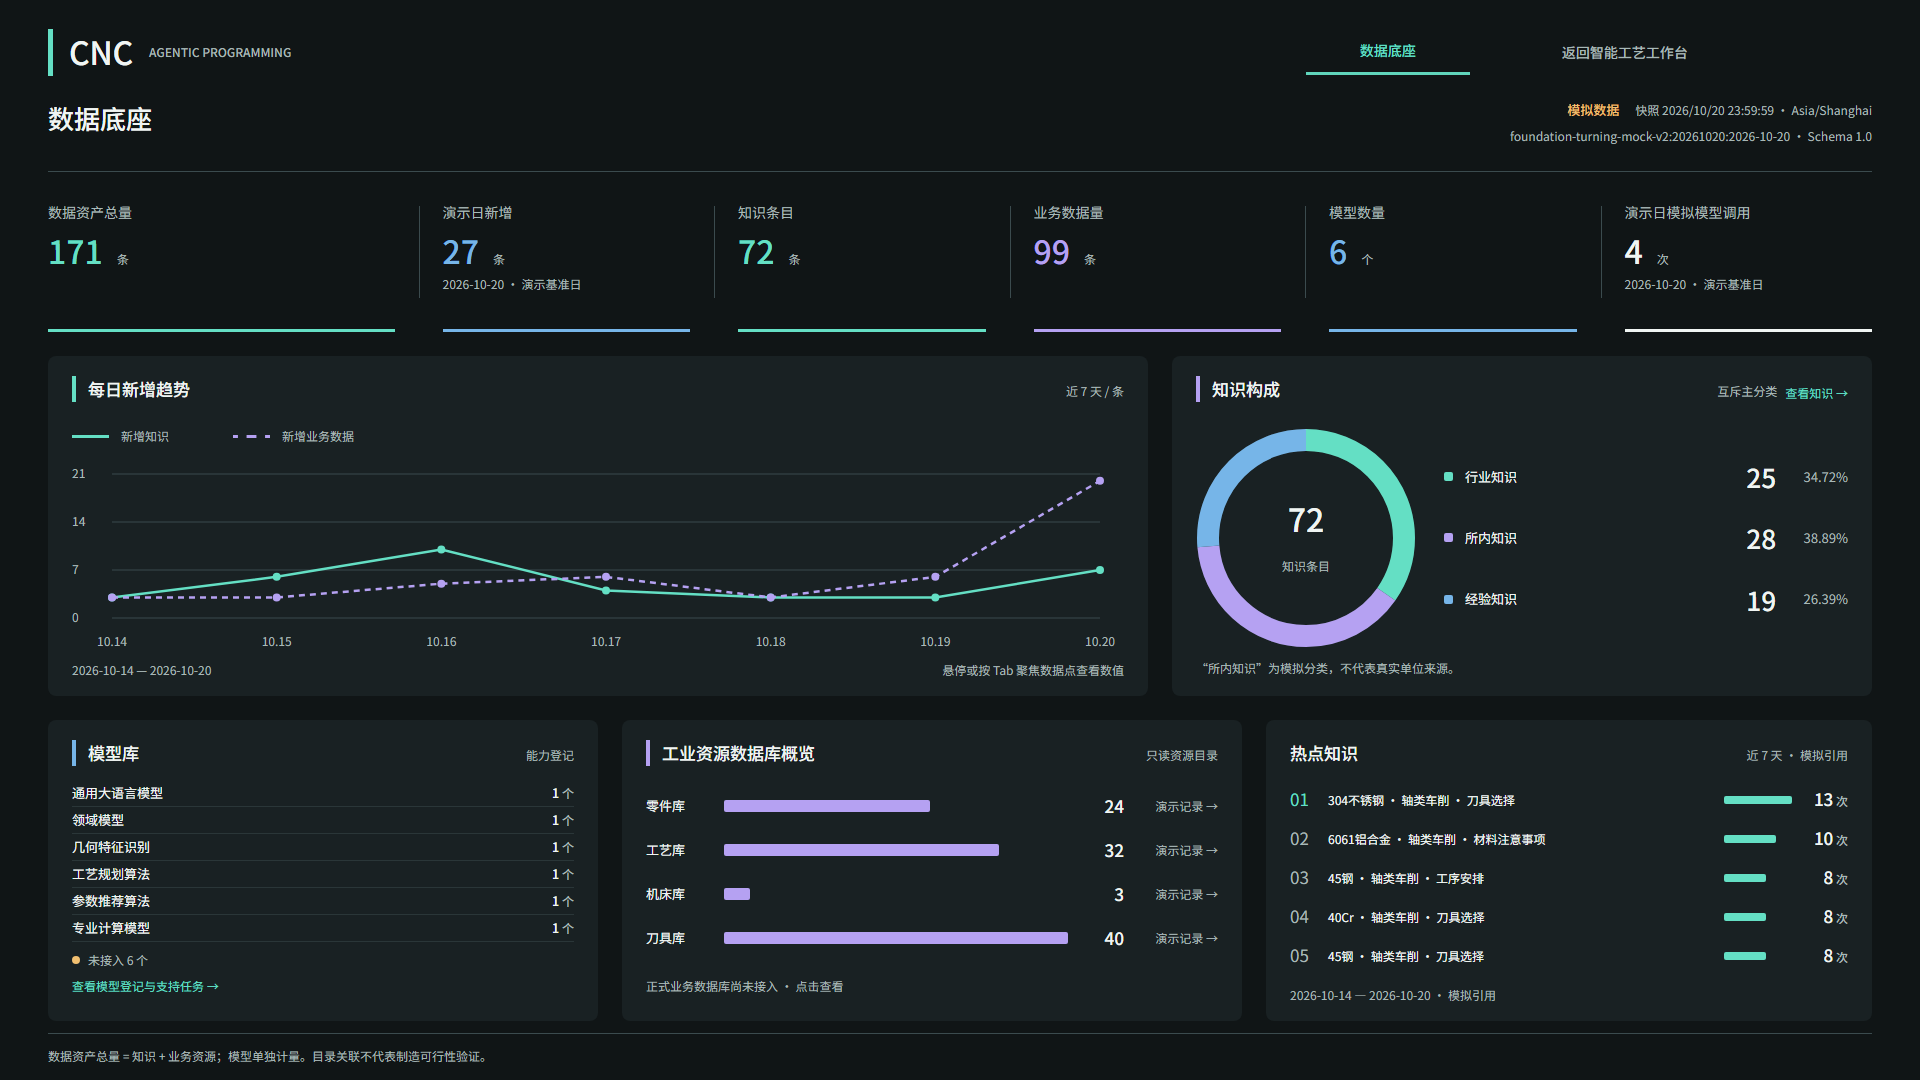
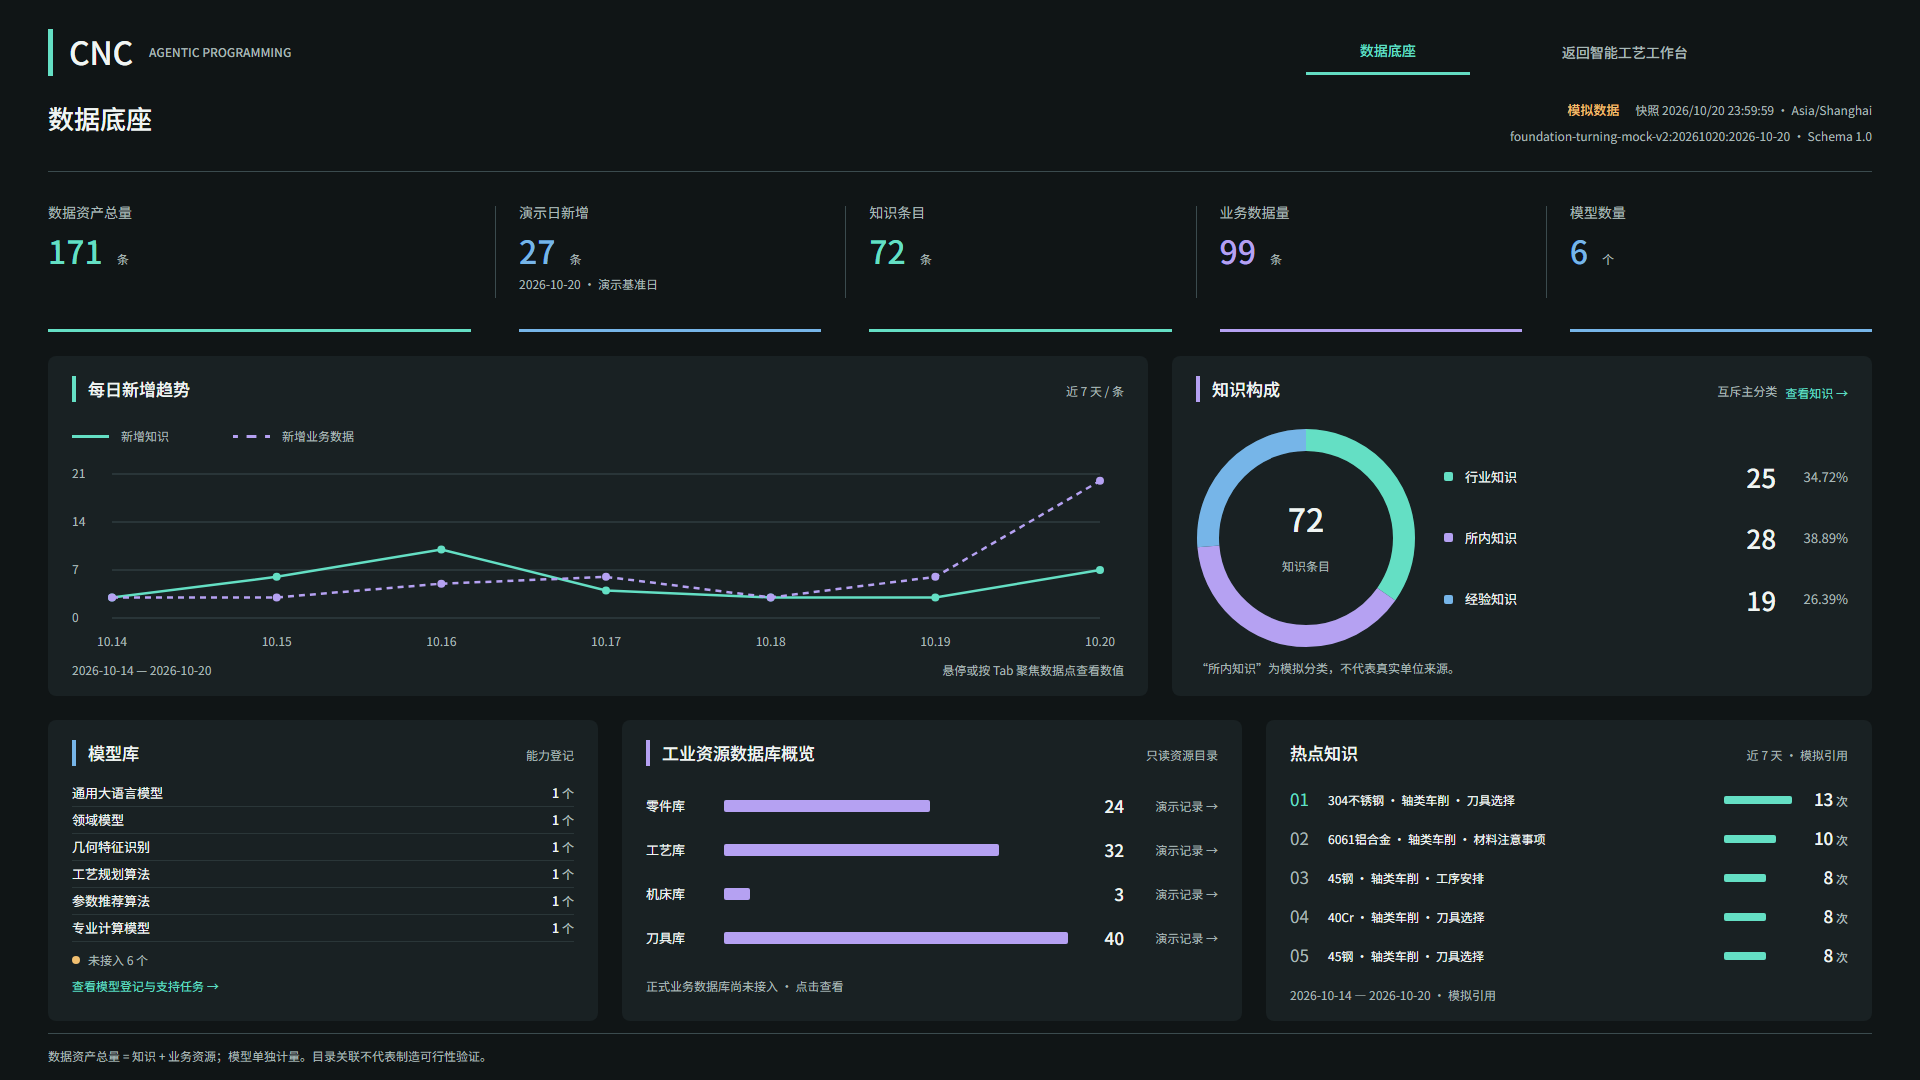
refactor: 移除模型调用指标并调整五项概览布局

diff --git a/src/pages/data-foundation/DataFoundationPage.test.tsx b/src/pages/data-foundation/DataFoundationPage.test.tsx
@@ -23,7 +23,7 @@ function deferred<T>() {
 }
 
 describe('数据底座 Reader 驱动页面', () => {
-  it('独立 Reader 驱动六项指标、日期、零值、百分比、模型状态和引用排名', async () => {
+  it('独立 Reader 驱动五项指标、日期、零值、百分比、模型状态和引用排名', async () => {
     const reader = foundationTestReader()
     const overview = vi.spyOn(reader, 'getOverview'),
       trend = vi.spyOn(reader, 'getGrowthTrend'),
@@ -31,7 +31,8 @@ describe('数据底座 Reader 驱动页面', () => {
     render(<DataFoundationPage reader={reader} />)
     await screen.findByText('演示日新增')
     const kpis = screen.getByRole('region', { name: '数据概览' }).querySelectorAll('dd strong')
-    expect(Array.from(kpis, (item) => item.textContent)).toEqual(['8', '4', '3', '5', '1', '2'])
+    expect(Array.from(kpis, (item) => item.textContent)).toEqual(['8', '4', '3', '5', '1'])
+    expect(screen.queryByText(/模型调用/)).not.toBeInTheDocument()
     expect(screen.getByText('模拟数据')).toBeVisible()
     expect(screen.getByText(/independent-ui-reader-v1/)).toBeVisible()
     expect(screen.getByText(/快照 2026\/10\/20 23:59:59/)).toBeVisible()
@@ -87,7 +88,7 @@ describe('数据底座 Reader 驱动页面', () => {
         screen.getByRole('region', { name: '数据概览' }).querySelectorAll('dd strong'),
         (item) => item.textContent,
       ),
-    ).toEqual(['0', '0', '0', '0', '0', '0'])
+    ).toEqual(['0', '0', '0', '0', '0'])
     expect(screen.getByText('该窗口暂无知识引用')).toBeVisible()
     expect(screen.getByText('暂无模型登记')).toBeVisible()
     expect(region('知识构成').getAllByText('0%')).toHaveLength(3)
@@ -110,7 +111,7 @@ describe('数据底座 Reader 驱动页面', () => {
         screen.getByRole('region', { name: '数据概览' }).querySelectorAll('dd strong'),
         (item) => item.textContent,
       ),
-    ).toEqual(['0', '0', '0', '0', '0', '0'])
+    ).toEqual(['0', '0', '0', '0', '0'])
   })
   it('来源为 live 时保留真实来源和实际模型状态，不写死模拟文案', async () => {
     const reader = foundationTestReader(false, 'live')

diff --git a/src/features/data-foundation/FoundationPanels.tsx b/src/features/data-foundation/FoundationPanels.tsx
@@ -16,12 +16,6 @@ export function FoundationKpis({ response }: { response: FoundationResponse<Foun
     ['知识条目', response.data.knowledgeCount, '条', 'cyan'],
     ['业务数据量', response.data.businessDataCount, '条', 'violet'],
     ['模型数量', response.data.modelCount, '个', 'blue'],
-    [
-      demo ? '演示日模拟模型调用' : '当日模型调用',
-      response.data.modelInvocationsToday,
-      '次',
-      'white',
-    ],
   ] as const
   return (
     <dl className="foundation-kpis">
@@ -32,7 +26,7 @@ export function FoundationKpis({ response }: { response: FoundationResponse<Foun
             <strong>{number(value)}</strong>
             <span>{unit}</span>
           </dd>
-          {(label === '演示日新增' || label === '当日新增' || unit === '次') && (
+          {(label === '演示日新增' || label === '当日新增') && (
             <small>
               {response.data.date}
               {demo ? ' · 演示基准日' : ' · 统计日'}

diff --git a/src/styles/data-foundation.css b/src/styles/data-foundation.css
@@ -122,7 +122,7 @@
 }
 .foundation-kpis {
   display: grid;
-  grid-template-columns: 1.4fr repeat(5, 1fr);
+  grid-template-columns: 1.4fr repeat(4, 1fr);
   gap: 48px;
   padding: 28px 0 24px;
 }
@@ -134,9 +134,6 @@
 }
 .foundation-tone-blue {
   --foundation-tone: var(--foundation-blue);
-}
-.foundation-tone-white {
-  --foundation-tone: var(--text-primary);
 }
 .foundation-kpi {
   position: relative;

diff --git a/docs/workflows/FE-004B-ACCEPTANCE.md b/docs/workflows/FE-004B-ACCEPTANCE.md
@@ -4,11 +4,11 @@
 
 ## 1. 完成范围与数据边界
 
-数据底座作为独立全局视图接入现有 AppShell，保留一个品牌页眉、当前入口和“返回智能工艺工作台”。页面包含六项 KPI、七日新增趋势、知识构成、模型库、工业资源数据库概览、热点知识，以及六类资源的只读目录、名称搜索、分页、详情和关联 ID 跳转。
+数据底座作为独立全局视图接入现有 AppShell，保留一个品牌页眉、当前入口和“返回智能工艺工作台”。页面包含五项 KPI、七日新增趋势、知识构成、模型库、工业资源数据库概览、热点知识，以及六类资源的只读目录、名称搜索、分页、详情和关联 ID 跳转。
 
 数据契约、Schema、生成器、统计函数、默认配置均未修改。使用维护者验收的 `foundation-turning-mock-v2`，seed `20261020`，基准日期 `2026-10-20`，时区 `Asia/Shanghai`。Reader 返回的快照版本为 `foundation-turning-mock-v2:20261020:2026-10-20`，Schema 为 `1.0`；没有根据系统当天日期刷新 Mock。
 
-实际资源仍为 24 个零件、32 套方案、96 道工序、3 台机床、40 把刀具、72 条知识、6 条模型登记、240 条使用事件。数据资产总量为 171（72 + 99），不含模型、工序或事件；六项 KPI 依次为 **171、27、72、99、6、4**。这是演示基准日统计，不是实时统计。
+实际资源仍为 24 个零件、32 套方案、96 道工序、3 台机床、40 把刀具、72 条知识、6 条模型登记、240 条使用事件。数据资产总量为 171（72 + 99），不含模型、工序或事件；五项 KPI 依次为 **171、27、72、99、6**。这是演示基准日统计，不是实时统计。
 
 知识构成直接使用 Reader 返回的数量和百分比：行业 25 / 34.72%，所内 28 / 38.89%，经验 19 / 26.39%。知识“所内”分类不意味着真实单位来源。全部模型当前为 `not_connected`。界面展示模型登记及支持任务，不声称已部署、真实可调用或已建设知识图谱。目录关联不代表制造可行性验证。
 
@@ -18,7 +18,7 @@
 
 唯一依赖组合入口为 `src/app/dataFoundation.ts`：模块级创建 `MockDataFoundationReader(foundationDemoConfig)`，并以 `DataFoundationReader` 类型导出。App 可注入另一个 Reader。页面和功能组件只依赖契约，不导入生成器、生成模板或使用事件。
 
-- `getOverview()`：六项 KPI 和统计日。
+- `getOverview()`：五项 KPI 和统计日。
 - `getGrowthTrend({ days: 7 })`：实际日期及两条新增序列，保留零值。
 - `getKnowledgeDistribution()`：互斥分类、数量、Reader 已分配的百分比。
 - `getResourceSummary()`：模型类型、接入状态及四类业务资源数量；两个面板共享一次读取。
@@ -28,7 +28,7 @@
 
 `useFoundationQuery` 隔离每个请求的加载、成功、失败与重试状态。参数变化立即隐藏旧响应，清理标记阻止旧请求迟到覆盖结果。统计模块可独立失败；资源汇总失败影响两个共享面板。错误保留 Reader 类别，不补零、不回退其他数据源。空列表与不存在的详情有独立文案。
 
-全页与资源目录/详情消费响应的 `schemaVersion`、`datasetVersion`、`dataMode`、`asOf` 和 `timeZone`。模拟模式使用“演示日新增”“演示日模拟模型调用”“模拟引用”，live 测试替身验证真实来源和模型状态不会被硬编码为 Mock。
+全页与资源目录/详情消费响应的 `schemaVersion`、`datasetVersion`、`dataMode`、`asOf` 和 `timeZone`。模拟模式使用“演示日新增”“模拟引用”，live 测试替身验证真实来源和模型状态不会被硬编码为 Mock。
 
 未来真实 API：由新的 Reader 实现全部七项能力，在组合入口替换实例。后端需提供一致的快照语义、聚合口径、权限过滤后的总数/分页/详情、知识引用和模型调用审计事件，并将结构、版本及完整性失败映射为现有错误类别。页面只计算图形坐标和相对条长，不重复聚合数据。此 PR 不假设这些正式 API 已存在。
 
@@ -42,11 +42,11 @@
 
 ## 4. Figma 对照与截图
 
-设计来源：[01_Data_Foundation / 166:333](https://www.figma.com/design/87LfnDXn7hlAF5NiaQVNPK?node-id=166-333)。实施前已通过 Figma MCP 获取设计上下文和截图。保留深色底、青绿/紫/蓝配色、六项指标、中部 11:7 双图、底部三栏、8px 面板圆角及标题层级。
+设计来源：[01_Data_Foundation / 166:333](https://www.figma.com/design/87LfnDXn7hlAF5NiaQVNPK?node-id=166-333)。实施前已通过 Figma MCP 获取设计上下文和截图。保留深色底、青绿/紫/蓝配色、五项指标、中部 11:7 双图、底部三栏、8px 面板圆角及标题层级。
 
 趋势和环图使用 React SVG，坐标/弧段由 Reader 数据计算，不平滑或修改数值。趋势数据点支持鼠标与键盘读取。Figma 导出的实线/虚线图例（37×3）和琥珀状态点（8×8）保存在 `public/data-foundation/`，按原始尺寸使用，无临时远程素材地址。
 
-必要调整：固定快照来源替代旧“实时更新”文案；模型区显示六类登记而非过期数量或知识图谱；热点扩展为五条真实模拟知识引用。为了容纳这两处内容，底部面板约 300px 高，KPI 区留白适度收紧。1920×1080 完整显示；1440×900 保留字号、缩小间距，页面约 1049px 高，允许纵向滚动。两种尺寸均检查无横向溢出、覆盖按钮或标题截断。
+必要调整：按维护者最新意见移除模型调用统计卡片，顶部改为五项指标；Reader 的调用统计契约仍保留。固定快照来源替代旧“实时更新”文案；模型区显示六类登记而非过期数量或知识图谱；热点扩展为五条真实模拟知识引用。为了容纳这两处内容，底部面板约 300px 高，KPI 区留白适度收紧。1920×1080 完整显示；1440×900 保留字号、缩小间距，页面约 1049px 高，允许纵向滚动。两种尺寸均检查无横向溢出、覆盖按钮或标题截断。
 
 截图来自真实 Chromium（100% 缩放），全页截图包含滚动区域：
 
